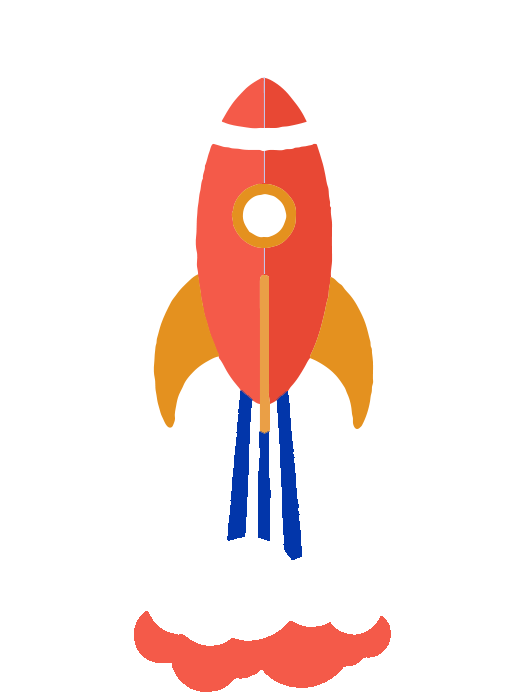
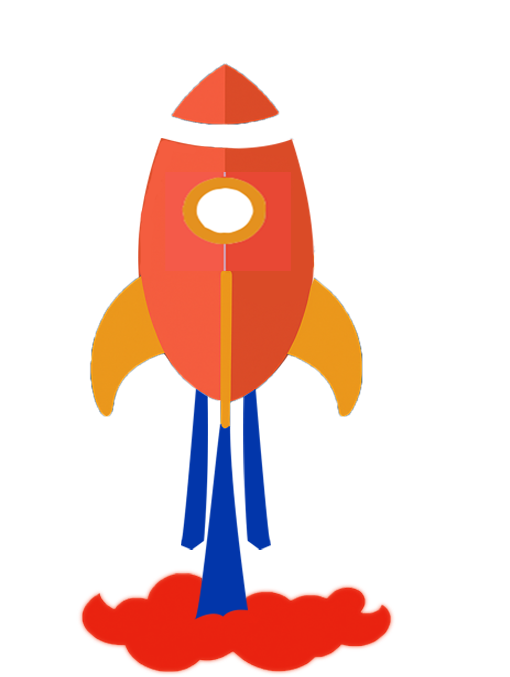
animated scroll-btn

Changed region(s): [[0.1471, 0.0931, 0.7941, 1.0]]

diff --git a/src/styles/scss/_buttons.scss b/src/styles/scss/_buttons.scss
@@ -79,72 +79,10 @@
     z-index: 9999;
     transition: all 0.5s ease;
 
-    &:hover {
-      -moz-transform: scale(1.22);
-      -webkit-transform: scale(1.22);
-      -o-transform: scale(1.22);
-      -ms-transform: scale(1.22);
-      -webkit-transform: scale(1.22);
-      transform: scale(1.22);
-      -webkit-transition: transform 0.2s ease-in-out;
-      -moz-transition:transform 0.2s ease-in-out;
-      -ms-transition:transform 0.2s ease-in-out;
-    }
+ 
   }
   
-
-
-
-
-
-img.scrollTopStick {
-    width: 100px;
-    height: 100px;
-    border-radius: 100%;
-    border: 0;
-    position: fixed;
-    bottom: 50px;
-    right: 50px;
-    opacity: 0;
-    visibility: hidden;
-    transform: translateY(30px);
-    -webkit-transform: translateY(30px);
-    -moz-transform: translateY(30px);
-    -o-transform: translateY(30px);
-    display: flex;
-    align-items: center;
-    justify-content: center;
-}
-img.scrollTopStick.active {
-    opacity: 1;
-    visibility: visible;
-    transform: translateY(0px);
-    box-shadow: 2px 2px 7px 2px rgb(0 0 0 / 5%);
-    -webkit-box-shadow: 2px 2px 7px 2px rgb(0 0 0 / 5%);
-    -moz-box-shadow: 2px 3px 45px 0px rgba(0 0 0 / 5%);
-    cursor: pointer;
-    z-index: 999;
-    background: transparent;
-}
-img.scrollTopStick.active:before {
-    content: "";
-    width: 65px;
-    height: 65px;
-    border: 3px dotted #ddd;
-    position: absolute;
-    border-radius: 100%;
-}
-img.scrollTopStick i {
-    color: $black;
-    -webkit-font-smoothing: antialiased;
-}
-img.scrollTopStick:hover {
-    transform: scale(1.4);
-    transition: all 1s;
-}
-
-
-img.scrollTopStick.active:before {
+  img.scrollTopStick.active:before {
     animation-name: rotateme;
     animation-duration: 15s;
     animation-iteration-count: infinite;
@@ -166,6 +104,57 @@ img.scrollTopStick.active:before {
     -o-animation-iteration-count: infinite;
     -o-animation-timing-function: linear;
 }
+
+.scrollTopStick {
+  width: 100px;
+  height: 100px;
+  position: fixed;
+  bottom: 50px;
+  right: 50px;
+  background-image: url('/images/scroll-btn.png');
+  background-size: contain;
+  background-position: center;
+  background-repeat: no-repeat;
+  border-radius: 100%;
+  opacity: 0;
+  visibility: hidden;
+  transform: translateY(30px);
+    -webkit-transform: translateY(30px);
+    -moz-transform: translateY(30px);
+    -o-transform: translateY(30px);
+  transition: all 0.4s ease;
+  cursor: pointer;
+  z-index: 999;
+}
+
+.scrollTopStick.active {
+  opacity: 1;
+  visibility: visible;
+  transform: translateY(0px);
+  box-shadow: 2px 2px 7px 2px rgba(0, 0, 0, 0.05);
+    -webkit-box-shadow: 2px 2px 7px 2px rgb(0 0 0 / 5%);
+    -moz-box-shadow: 2px 3px 45px 0px rgba(0 0 0 / 5%);
+      cursor: pointer;
+    z-index: 999;
+}
+
+.scrollTopStick.active:hover {
+  background-image: url('/images/scroll-btn-moon.png'); // this is the hover image
+    transform: scale(1.4);
+    transition: all 1s;
+}
+
+img.scrollTopStick.active:before {
+    content: "";
+    width: 65px;
+    height: 65px;
+    position: absolute;
+    border-radius: 100%;
+}
+
+
+
+
 
 @media(max-width: 425px) {
 
@@ -210,13 +199,11 @@ img.scrollTopStick.active {
     -moz-box-shadow: 2px 3px 45px 0px rgba(0 0 0 / 5%);
     cursor: pointer;
     z-index: 999;
-    background: transparent;
 }
 img.scrollTopStick.active:before {
     content: "";
     width: 65px;
     height: 65px;
-    border: 3px dotted #ddd;
     position: absolute;
     border-radius: 100%;
 }

diff --git a/components/buttons.js b/components/buttons.js
@@ -39,13 +39,12 @@ class ScrollButton extends React.Component {
   
   render() {
     return (
-      <img 
-        src="/images/scroll-btn.png" 
+      <button 
         style={{backgroundColor: 'transparent', boxShadow: 'none'}} 
         id='scrollTop' 
         className='scrollTopStick'
         onClick={this.scrollToTop}
-        alt="Scroll to top"
+        aria-label="Scroll to top"
       />
     );
   }
